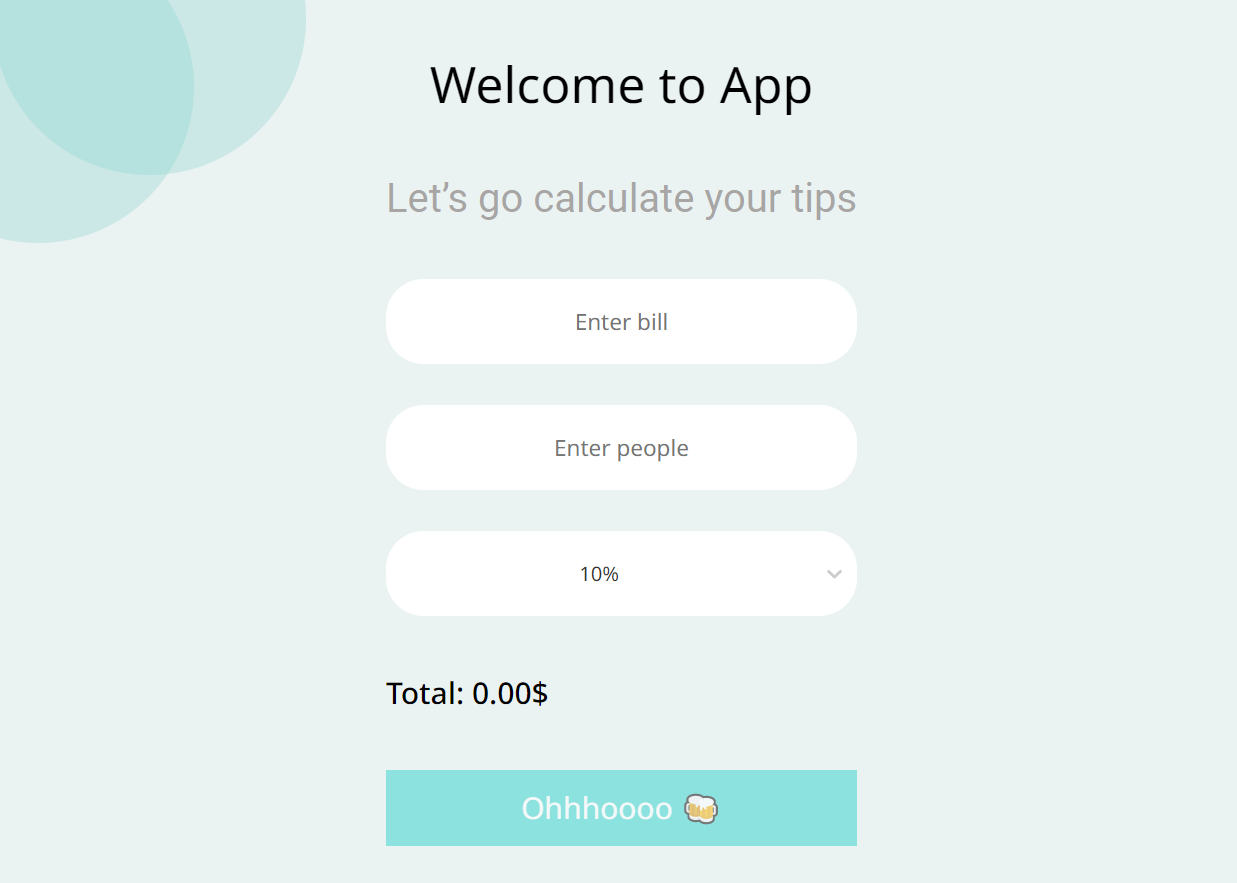
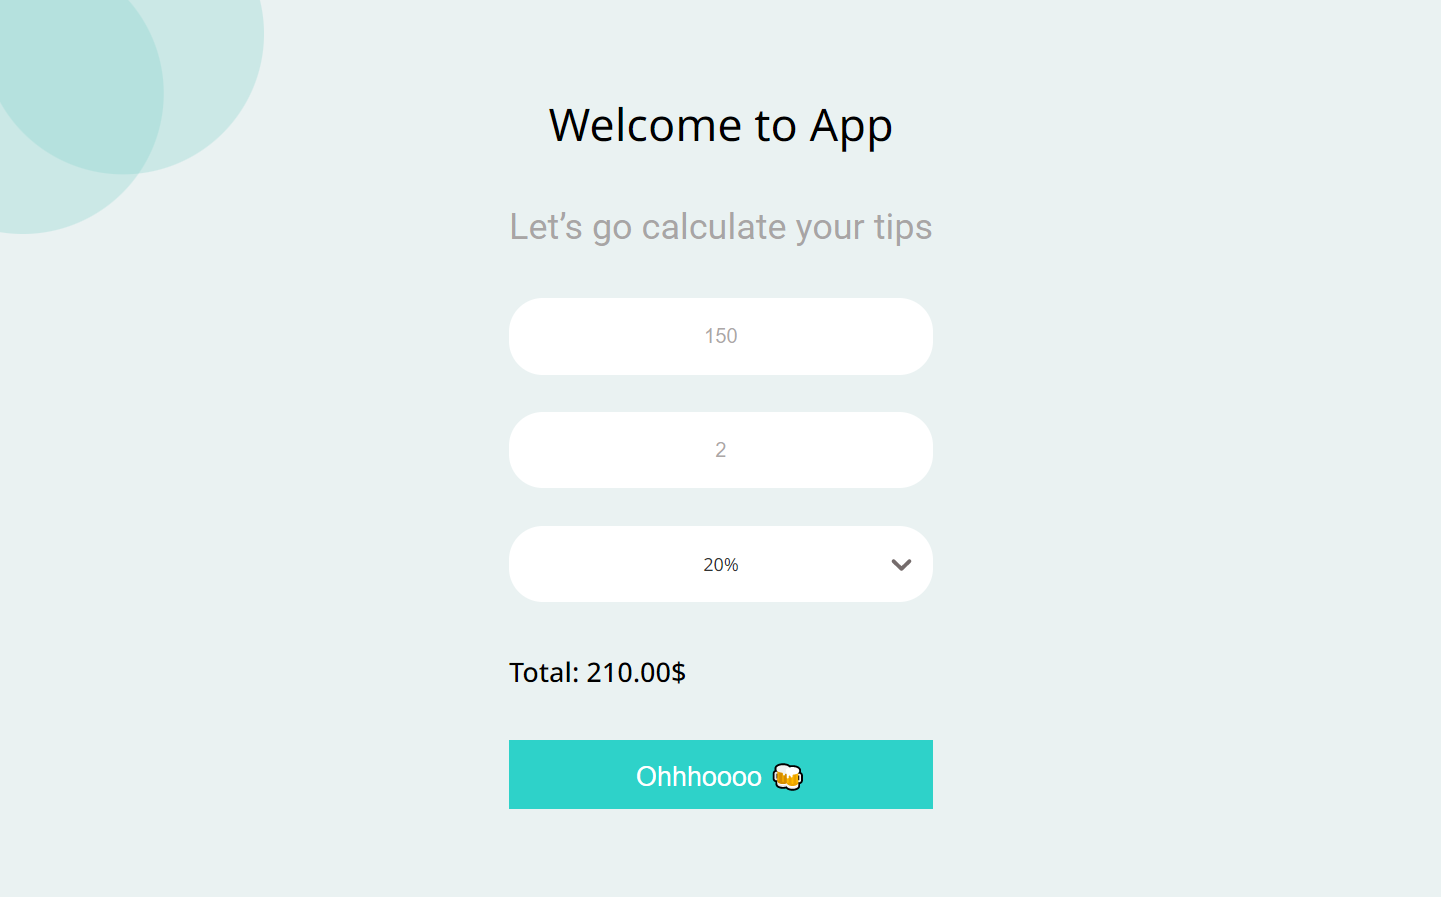
refactor(hw-38): code refactor in all files

diff --git a/src/components/form/Form.tsx b/src/components/form/Form.tsx
@@ -1,46 +1,23 @@
-import { useEffect, useState } from "react";
-import { IOption } from "../../types/types";
+import { FormEvent, useEffect, useState } from "react";
+import { useInput } from "../../hooks/useInput";
+import { ITipsOption } from "../../types/types";
 import { Button } from "../button/Button";
 import { CustomSelect } from "../custom-select/CustomSelect";
 import { Input } from "../input/Input";
 import { Title, StyledForm, Subtitle, Total } from "./styles";
 
-const options: IOption[] = [
-  {
-    value: 10,
-    label: "10%",
-  },
-  {
-    value: 15,
-    label: "15%",
-  },
-  {
-    value: 20,
-    label: "20%",
-  },
-];
 
 export const Form = () => {
-  const [bill, setBill] = useState("");
-  const [people, setPeople] = useState("");
-  const [percent, setPercent] = useState(10);
-  const [total, setTotal] = useState(0.0);
-  const [buttonState, setButtonState] = useState(true);
+  const bill = useInput();
+  const people = useInput();
+  const [tips, setTips] = useState<ITipsOption>({value: 10, label: "10%"});
+  const [total, setTotal] = useState<number>(0);
+  const [buttonState, setButtonState] = useState<boolean>(true);
 
-  const handleBill = (value: string): void => {
-    setBill(value);
-  };
-
-  const handlePeople = (value: string): void => {
-    setPeople(value);
-  };
-
-  const getPercentValue = (): IOption | undefined | "" => {
-    return percent ? options.find((option) => option.value === percent) : "";
-  };
-
-  const handlePercent = (newValue: IOption): void => {
-    setPercent(newValue.value);
+  const handleSelect = (option: ITipsOption | null): void => {
+    if (option){
+      setTips(option);
+    }
   };
 
   const calculateTips = (billStr: string, peopleStr: string, percent: number): number => {
@@ -49,27 +26,28 @@ export const Form = () => {
     return bill + ((bill * percent) / 100) * people;
   };
 
-  const onButtonClick = (): void => {
-    setTotal(calculateTips(bill, people, percent));
+  const handleSubmit= (event: FormEvent<HTMLFormElement>): void => {
+    event.preventDefault();
+    setTotal(calculateTips(bill.value, people.value, tips.value));
   };
 
   useEffect((): void => {
-    if (bill && people) {
+    if (bill.value && people.value) {
       return setButtonState(false);
     } else {
       return setButtonState(true);
     }
-  });
+  }, [bill, people]);
 
   return (
-    <StyledForm>
+    <StyledForm onSubmit={handleSubmit}>
       <Title>Welcome to App</Title>
       <Subtitle>Let’s go calculate your tips</Subtitle>
-      <Input placeholder="Enter bill" value={bill} onChange={handleBill} />
-      <Input placeholder="Enter people" value={people} onChange={handlePeople} />
-      <CustomSelect onChange={handlePercent} value={getPercentValue()} options={options} />
+      <Input placeholder="Enter bill" {...bill} />
+      <Input placeholder="Enter people" {...people} />
+      <CustomSelect tips={tips} handleSelect={handleSelect} />
       <Total>Total: {total.toFixed(2)}$</Total>
-      <Button onClick={onButtonClick} disabled={buttonState} />
+      <Button disabled={buttonState} />
     </StyledForm>
   );
 };

diff --git a/src/components/custom-select/styles.tsx b/src/components/custom-select/styles.tsx
@@ -1,20 +1,22 @@
-import { ControlProps, CSSObjectWithLabel, GroupBase, StylesConfig } from "react-select";
+import { StylesConfig } from "react-select";
+import { ITipsOption } from "../../types/types";
 
-export const customStyles: StylesConfig = {
-  control: (styles: CSSObjectWithLabel, state: ControlProps<unknown, boolean, GroupBase<unknown>>) => ({
+export const customStyles: StylesConfig<ITipsOption> = {
+  control: (styles, state) => ({
     ...styles,
     borderRadius: "30px",
     height: "68px",
     textAlign: "center",
     color: "#756C6C",
     border: state.isFocused ? "2px solid rgba(117, 108, 108, 0.57)" : 0,
+    boxShadow: state.isFocused ? "0 0 0 1px rgba(117, 108, 108, 0.57)": "",
 
     "&:hover": {
       border: state.isFocused ? "2px solid rgba(117, 108, 108, 0.57)" : 0,
     },
   }),
 
-  input: (styles: CSSObjectWithLabel) => ({
+  input: styles => ({
     ...styles,
     color: "#756C6C",
     fontSize: "18px",
@@ -24,10 +26,23 @@ export const customStyles: StylesConfig = {
     display: "none",
   }),
 
-  dropdownIndicator: (styles: CSSObjectWithLabel) => ({
+  dropdownIndicator: styles => ({
     ...styles,
-    color: "#756C6C",
-    // width: '22px',
-    // heigth: '10px',
+    color: "#756C6C"
   }),
+
+  indicatorsContainer: styles => ({
+    ...styles,
+
+    svg: {
+      width: 40,
+      height: 30
+    }
+  }),
+
+  valueContainer: styles => ({
+    ...styles,
+    marginLeft: "56px"
+  })
+
 };

diff --git a/src/components/custom-select/CustomSelect.tsx b/src/components/custom-select/CustomSelect.tsx
@@ -1,13 +1,18 @@
-import { IOption } from "../../types/types";
+import { ITipsOption } from "../../types/types";
 import Select from "react-select";
 import { customStyles } from "./styles";
 
 interface IProps {
-  onChange: (newValue: any) => void; // ???? тип
-  value: IOption | undefined | "";
-  options: IOption[];
+  tips: ITipsOption;
+  handleSelect: (option: ITipsOption | null) => void;
 }
 
-export const CustomSelect = ({ onChange, value, options }: IProps) => {
-  return <Select onChange={onChange} value={value} options={options} styles={customStyles} isSearchable={false} />;
+export const CustomSelect = ({ tips, handleSelect }: IProps) => {
+  const options: ITipsOption[] = [
+    {value: 10, label: "10%"},
+    {value: 15, label: "15%"},
+    {value: 20, label: "20%"},
+  ];
+
+  return <Select onChange={handleSelect} value={tips} options={options} styles={customStyles} isSearchable={false} isMulti={false} />;
 };

diff --git a/src/components/input/Input.tsx b/src/components/input/Input.tsx
@@ -1,9 +1,10 @@
+import { ChangeEvent } from "react";
 import { StyledInput } from "./styles";
 
 interface IProps {
   placeholder: string;
   value: string;
-  onChange: (value: string) => void;
+  onChange: (e: ChangeEvent<HTMLInputElement>) => void;
 }
 
 export const Input = ({ placeholder, value, onChange }: IProps) => {
@@ -11,7 +12,7 @@ export const Input = ({ placeholder, value, onChange }: IProps) => {
     <StyledInput
       placeholder={placeholder}
       value={value}
-      onChange={({ target }) => onChange(target.value)}
+      onChange={onChange}
       type="number"
     />
   );

diff --git a/src/components/button/Button.tsx b/src/components/button/Button.tsx
@@ -1,17 +1,12 @@
 import { StyledButton } from "./styles";
 
 interface IProps {
-  onClick: () => void;
   disabled: boolean;
 }
 
-export const Button = ({ onClick, disabled }: IProps) => {
+export const Button = ({ disabled }: IProps) => {
   return (
-    <StyledButton
-      onClick={({ target }: React.MouseEvent<HTMLButtonElement>): void => onClick()}
-      type="button"
-      disabled={disabled}
-    >
+    <StyledButton type="submit" disabled={disabled}>
       {" "}
       Ohhhoooo 🍻{" "}
     </StyledButton>

diff --git a/src/components/button/styles.tsx b/src/components/button/styles.tsx
@@ -1,16 +1,11 @@
 import styled from "styled-components";
 
-export const StyledButton = styled.button`
+export const StyledButton = styled.button<{disabled: boolean}>`
     height: 61px;
     border: 0;
     background-color: #2ED2C9;
     font-size: 24px;
     color: #FFFFFF;
     cursor: pointer;
-
-    &:disabled,
-    &[disabled]{
-        opacity: 50%;
-        cursor: default;
-}
+    opacity: ${({ disabled }) => ( disabled ? '0.5' : '1' )};
 `

diff --git a/src/components/form/styles.tsx b/src/components/form/styles.tsx
@@ -19,6 +19,7 @@ export const StyledForm = styled.form`
 
 export const Title = styled.h1`
   font-size: 24px;
+  font-weight: 400;
   text-align: center;
 
   @media screen and (min-width: 414.99px) {
@@ -37,6 +38,7 @@ export const Subtitle = styled.h2`
   text-align: center;
   font-family: "Roboto", "sans-serif";
   font-size: 24px;
+  font-weight: 400;
 
   @media screen and (min-width: 414.99px) {
     font-size: 24px;

diff --git a/src/App.tsx b/src/App.tsx
@@ -1,16 +1,11 @@
 import { Form } from "./components/form/Form";
-import { CircleLeft, CircleTop, FormContainer, GlobalStyle } from "./GlobalStyles";
+import { Wrapper } from "./ui/base";
 
 function App() {
   return (
-    <>
-      <CircleTop />
-      <CircleLeft />
-      <GlobalStyle />
-      <FormContainer>
+      <Wrapper>
         <Form />
-      </FormContainer>
-    </>
+      </Wrapper>
   );
 }
 

diff --git a/src/hooks/useInput.ts b/src/hooks/useInput.ts
@@ -1,0 +1,14 @@
+import { ChangeEvent, useState } from "react";
+
+export const useInput = (initialValue: string = '') => {
+    const [value, setValue] = useState<string>(initialValue);
+
+    const onChange = (e: ChangeEvent<HTMLInputElement>): void => {
+        setValue(e.target.value);
+    }
+
+    return {
+        value,
+        onChange
+    }
+}

diff --git a/src/index.tsx b/src/index.tsx
@@ -1,10 +1,12 @@
 import React from "react";
 import ReactDOM from "react-dom/client";
 import App from "./App";
+import { GlobalStyle } from "./ui/globalStyles";
 
 const root = ReactDOM.createRoot(document.getElementById("root") as HTMLElement);
 root.render(
   <React.StrictMode>
+    <GlobalStyle />
     <App />
   </React.StrictMode>
 );

diff --git a/src/ui/globalStyles.tsx b/src/ui/globalStyles.tsx
@@ -1,0 +1,14 @@
+import { createGlobalStyle } from "styled-components";
+
+export const GlobalStyle = createGlobalStyle`
+  * {
+    box-sizing: border-box;
+    margin: 0;
+    padding: 0;
+  }
+
+  body {
+    font-family: 'Noto Sans', 'sans-serif';
+    background-color: #EAF2F2;
+  }
+`;

diff --git a/src/ui/base.ts b/src/ui/base.ts
@@ -1,0 +1,10 @@
+import styled from "styled-components";
+import circles from "../assets/circles.svg";
+
+export const Wrapper = styled.div`
+  display: grid;
+  place-items: center;
+  min-height: 100vh;
+  background: no-repeat url(${circles}) #EAF2F2;
+  overflow: hidden;
+`
